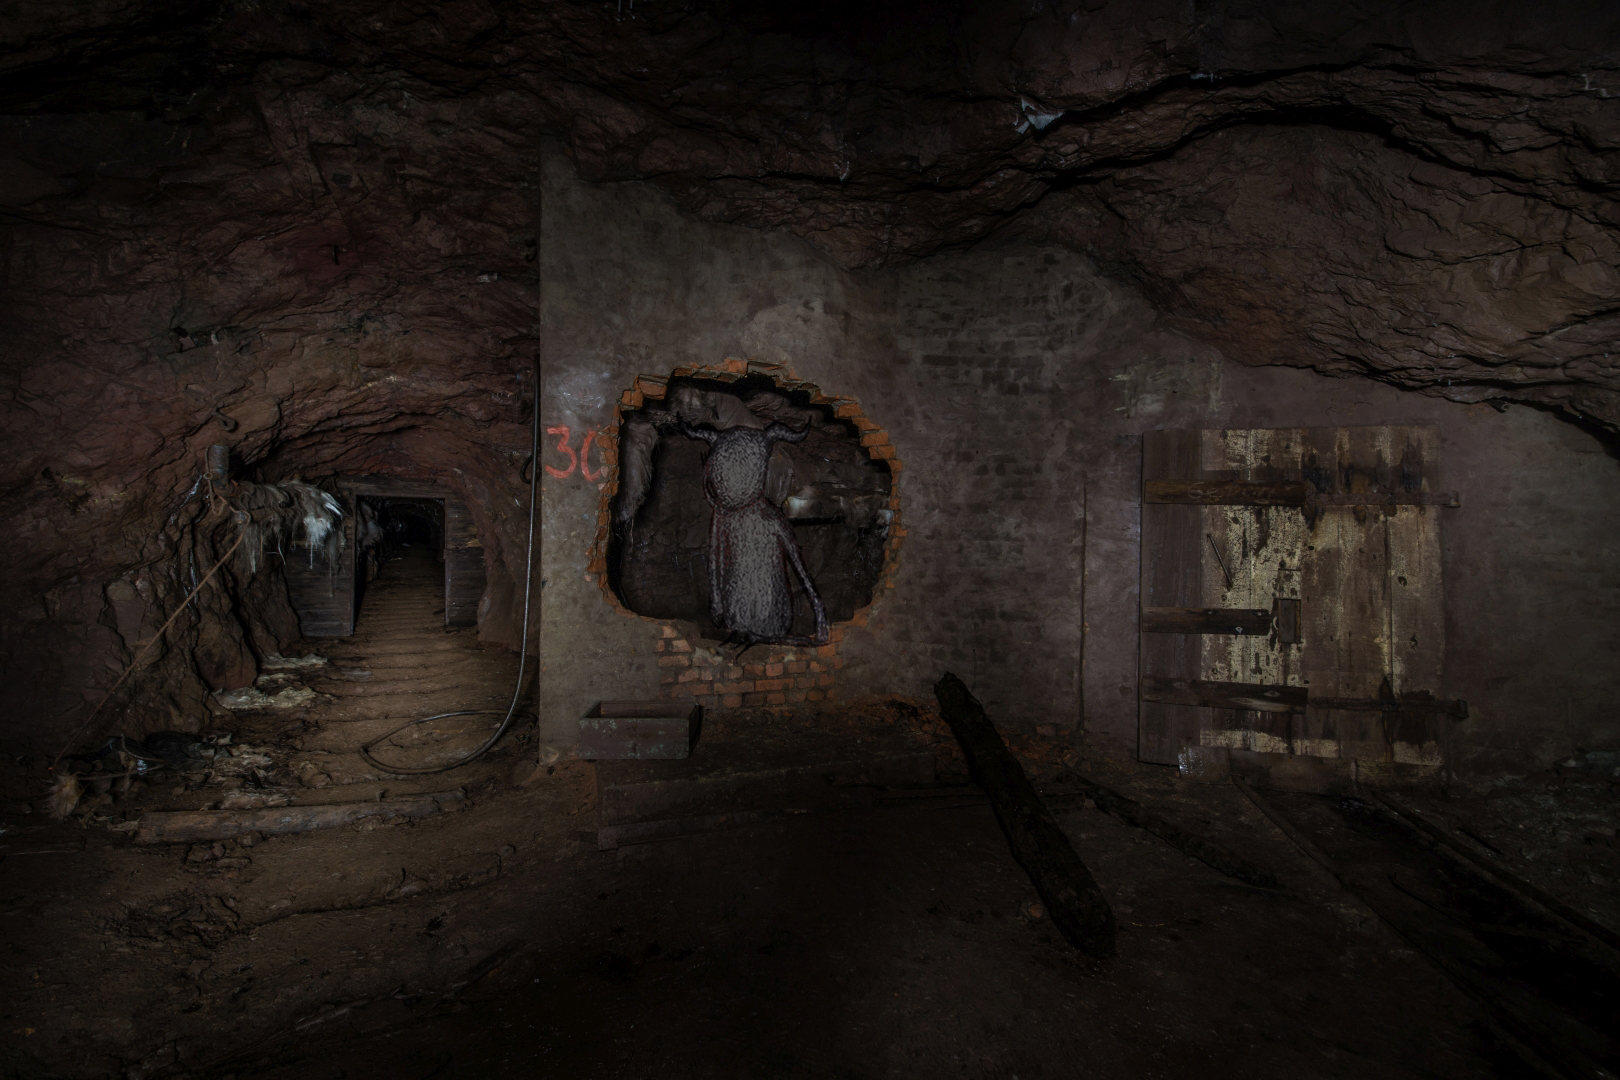
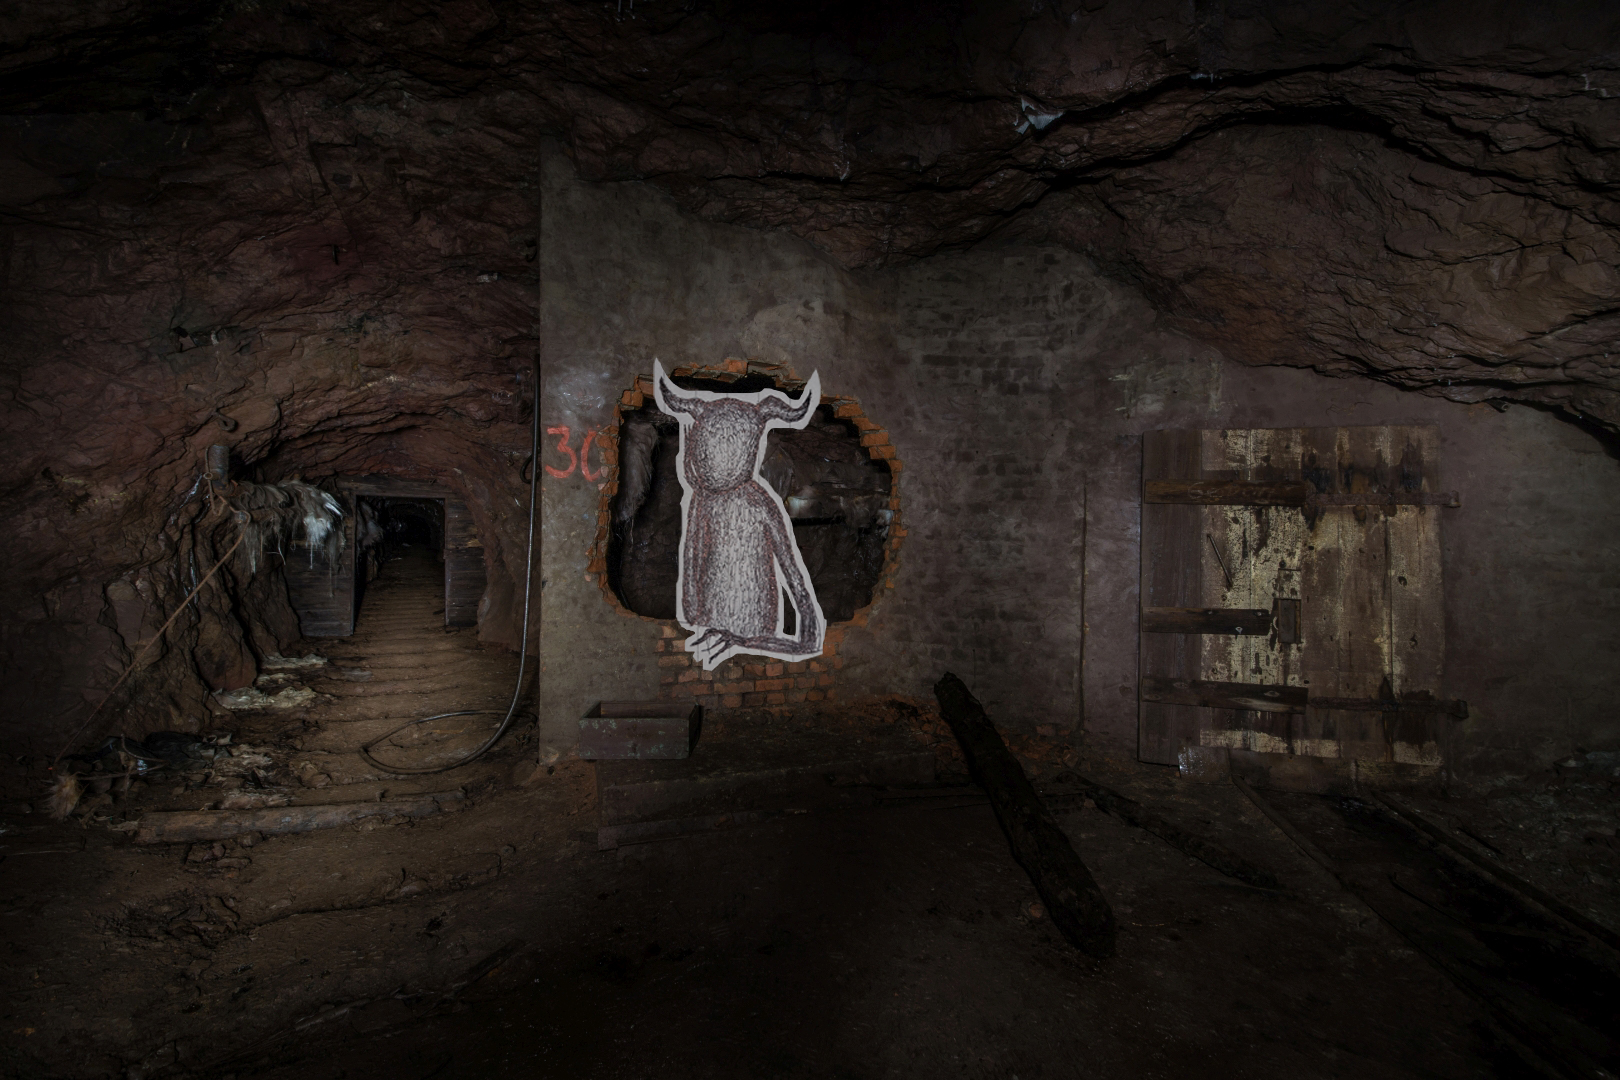
devil

Changed region(s): [[0.4012, 0.3361, 0.5247, 0.6111]]

diff --git a/cont/sec1/styles/cTemplate.css b/cont/sec1/styles/cTemplate.css
@@ -42,6 +42,12 @@ button {
         margin-left: 0;
         transform: translateX(0);
     }
+    div.devil img {
+        display: block;
+        margin: auto;
+        width: 90%;
+        margin-top: 5%;
+    }
     svg {
         margin-top: 75px;
         width: 100%;

diff --git a/cont/sec1/hallway3.html b/cont/sec1/hallway3.html
@@ -7,8 +7,8 @@
 </head>
 <body>
     <div class="container">
-        <div class="cave">
-            <img src="img/jpg/h3v2.jpg">
+        <div class="devil">
+            <img src="img/jpg/h3v4.jpg">
 
         </div>
         <div class="back">
